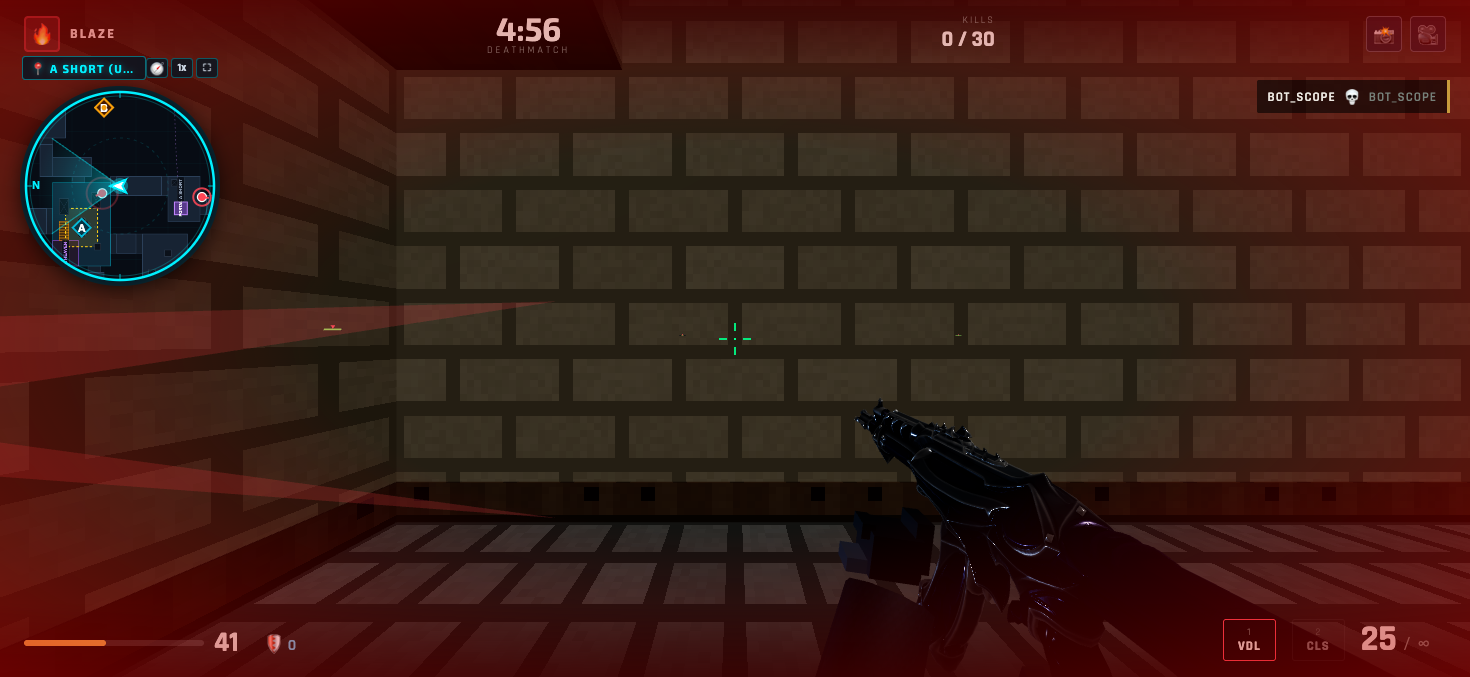
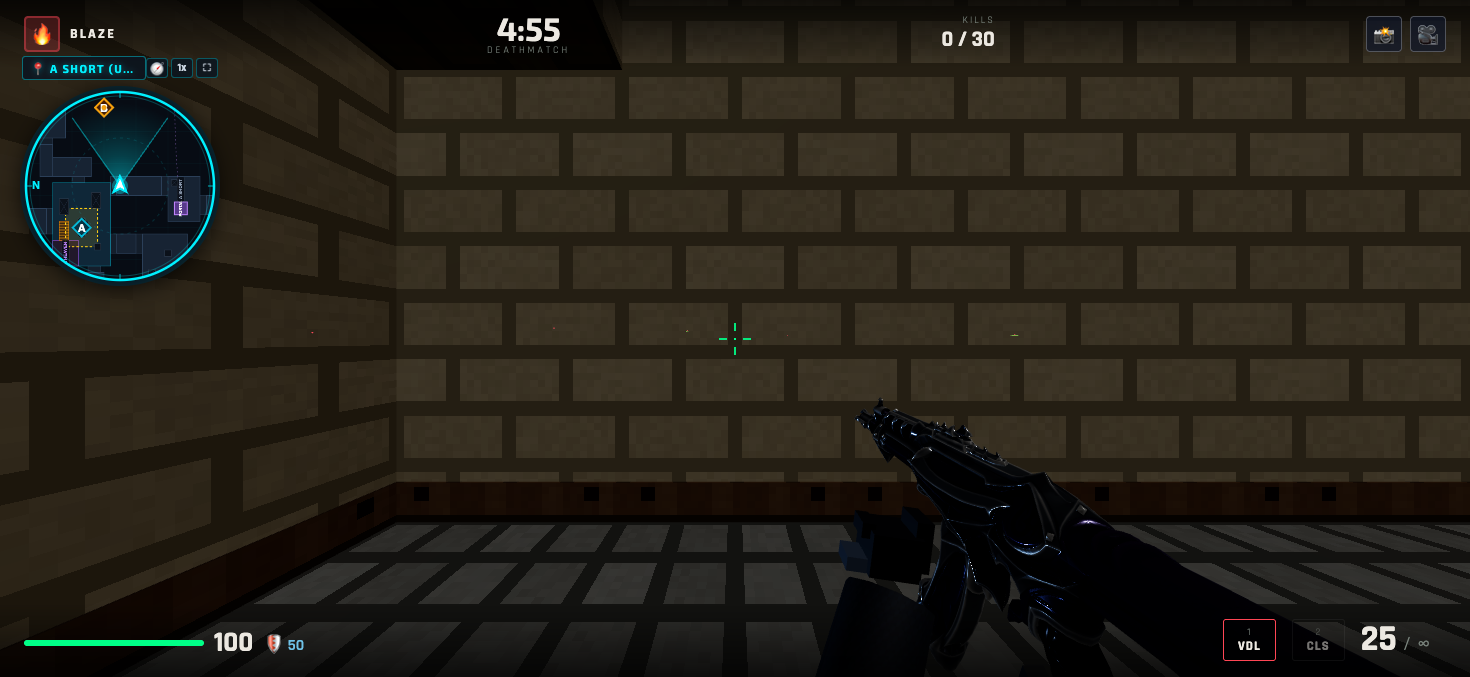
fix: keep player arrow and vision cone fixed straight UP in rotate minimap mode

diff --git a/src/ui/Minimap.js b/src/ui/Minimap.js
@@ -814,6 +814,9 @@ export class Minimap {
     // Apply orientation & translation
     ctx.translate(cx, cy)
 
+    // Save unrotated state centered at (cx, cy)
+    ctx.save()
+
     // In rotate mode: rotate world so player aim direction is always straight UP (-Math.PI / 2)
     const radarRotation = mode === 'rotate' ? (-aimAngle - Math.PI / 2) : 0
     if (radarRotation !== 0) {
@@ -958,10 +961,13 @@ export class Minimap {
       ctx.restore()
     }
 
-    // Draw Player Marker & Aim View Area
+    // Restore world rotation so coordinate space returns to unrotated screen space at (cx, cy)
+    ctx.restore()
+
+    // Draw Player Marker & Aim View Area in screen space
     let playerDrawX = 0
     let playerDrawY = 0
-    // In rotate mode: world is rotated by radarRotation, so forward aim direction is always straight UP (-Math.PI / 2)
+    // In rotate mode: player is centered and aim is ALWAYS straight UP (-Math.PI / 2) on screen!
     let playerDrawAngle = -Math.PI / 2
 
     if (mode === 'fixed') {
@@ -974,7 +980,7 @@ export class Minimap {
 
     this._drawPlayerMarker(ctx, playerDrawX, playerDrawY, playerDrawAngle, scale)
 
-    ctx.restore() // Restore from clip & rotation
+    ctx.restore() // Restore circular clip & translation back to canvas root
 
     // ── Radar Outer Reticle & Compass Needle ───────────────
     ctx.save()
